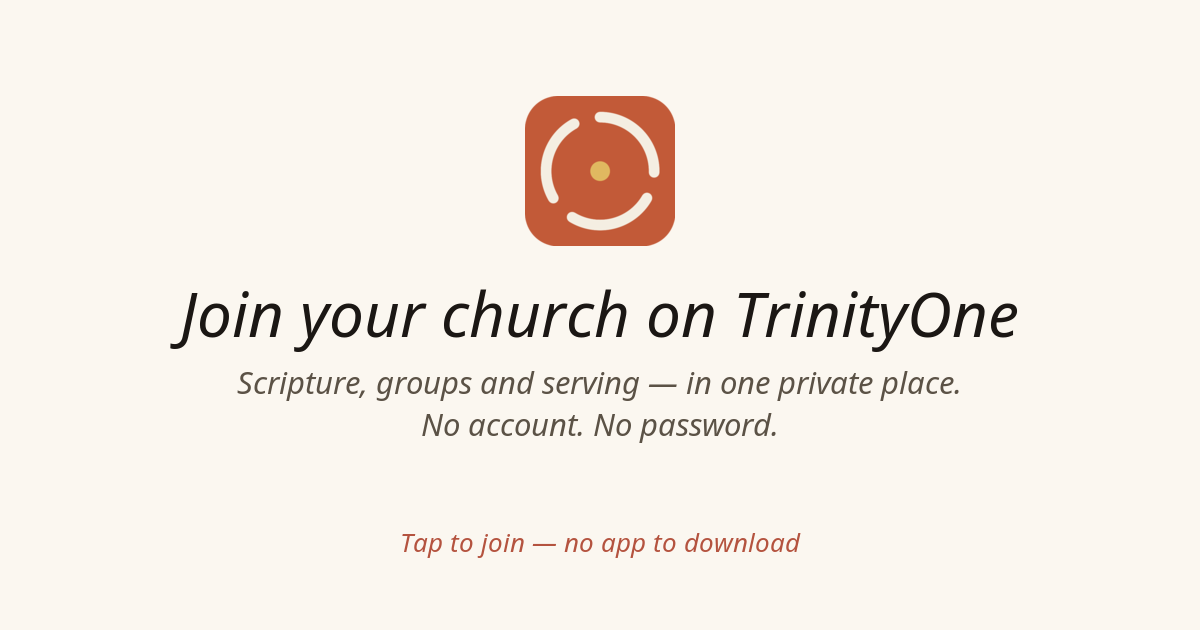
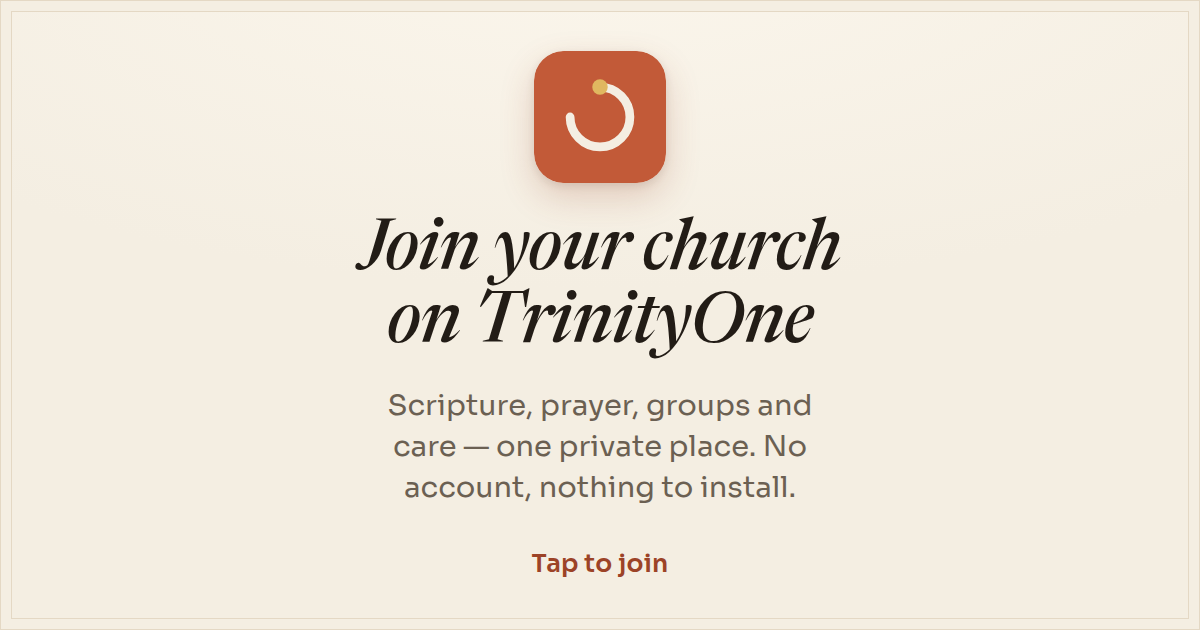
feat(share): refresh social cards + add a site-wide preview
Regenerate og-join.png (invite links) with current copy: drop the stale
"No password" line (there's an optional PIN now) and add care to the list.
Add og-cover.png "Build your church on TrinityOne" as the site-wide card —
mirrors the invite card's "Join your church on TrinityOne" — and wire
OG/Twitter meta into index/features/why/about/help/downloads, which had no
share preview at all (index/help also gained a meta description).

Cards regenerate from scripts/og-card.html via scripts/make-og-cards.sh
(headless chromium, 1200x630) — edit the CARDS object and re-run to reword.

Claude-Session: https://claude.ai/code/session_017d7boTphK8TM3FqU9XhieK

diff --git a/scripts/og-card.html b/scripts/og-card.html
@@ -1,0 +1,96 @@
+<!doctype html>
+<!-- Social share-card template for TrinityOne. NOT web-served — rendered to PNG at
+     build time by scripts/make-og-cards.sh (headless chromium, 1200x630).
+     Variants via ?v=join (the church join link) or ?v=site (any marketing page).
+     Edit the copy in CARDS below, then re-run the script. -->
+<meta charset="utf-8">
+<link rel="stylesheet" href="../vendor/fonts/fonts.css">
+<style>
+  :root{
+    --paper:#F4EEE2; --paper-soft:#FBF6EC;
+    --ink:#221C16; --ink-2:#6B6052;
+    --clay:#C25A38; --clay-deep:#9C4327; --gold:#C8962E; --line:#E4D8C4;
+    --serif:'Newsreader',Georgia,serif; --ui:'Sora',system-ui,sans-serif;
+  }
+  *{margin:0;padding:0;box-sizing:border-box}
+  html,body{width:1200px;height:630px}
+  body{
+    background:
+      radial-gradient(120% 90% at 50% -10%, var(--paper-soft) 0%, var(--paper) 62%);
+    font-family:var(--ui); color:var(--ink);
+    -webkit-font-smoothing:antialiased; text-rendering:optimizeLegibility;
+    display:flex; align-items:center; justify-content:center;
+  }
+  .card{
+    width:100%; height:100%;
+    border:1px solid var(--line);
+    box-shadow:inset 0 0 0 10px var(--paper), inset 0 0 0 11px var(--line);
+    display:flex; flex-direction:column; align-items:center; justify-content:center;
+    text-align:center; padding:0 96px;
+  }
+  .icon{
+    width:132px; height:132px; border-radius:30px;
+    box-shadow:0 14px 34px rgba(156,67,39,.22), 0 3px 8px rgba(34,28,22,.10);
+  }
+  .eyebrow{
+    display:none;
+    font-weight:700; font-size:20px; letter-spacing:4.5px;
+    text-transform:uppercase; color:var(--clay); margin-top:30px;
+  }
+  h1{
+    font-family:var(--serif); font-style:italic; font-weight:500;
+    font-size:70px; line-height:1.04; letter-spacing:-1px;
+    margin-top:34px; max-width:16ch; text-wrap:balance;
+  }
+  .sub{
+    font-weight:400; font-size:29px; line-height:1.42; color:var(--ink-2);
+    margin-top:22px; max-width:26ch; text-wrap:balance;
+  }
+  .cta{
+    display:none;
+    margin-top:40px; font-weight:600; font-size:25px;
+    color:var(--clay-deep); letter-spacing:.2px;
+  }
+  .cta::before{content:"";}
+  /* per-variant switches, toggled by the boot script's class on <body> */
+  body.v-join .cta{display:block}
+  /* eyebrow supported but unused; shown only if a variant sets non-empty eyebrow text */
+  body.has-eyebrow .eyebrow{display:block}
+  body.has-eyebrow h1{margin-top:16px}
+</style>
+<body>
+  <div class="card">
+    <img class="icon" src="../icons/halo.svg" alt="">
+    <div class="eyebrow" id="eyebrow"></div>
+    <h1 id="head"></h1>
+    <div class="sub" id="sub"></div>
+    <div class="cta" id="cta"></div>
+  </div>
+<script>
+  var CARDS = {
+    // The church JOIN link (join.html / welcome.html / install-anywhere.html / migrate.html)
+    join: {
+      eyebrow: '',
+      head: 'Join your church on TrinityOne',
+      sub: 'Scripture, prayer, groups and care — one private place. No account, nothing to install.',
+      cta: 'Tap to join'
+    },
+    // Any marketing page (index / features / why / about / help / downloads) — a plain site URL,
+    // i.e. a church LEADER arriving, not an invited member. Mirrors the join card: "Build" vs "Join".
+    site: {
+      eyebrow: '',
+      head: 'Build your church on TrinityOne',
+      sub: 'Scripture, prayer, groups, serving and care — on your church’s own server. No Big Tech, no ads.',
+      cta: ''
+    }
+  };
+  var v = (new URLSearchParams(location.search).get('v') || 'join');
+  var c = CARDS[v] || CARDS.join;
+  document.body.className = 'v-' + (CARDS[v] ? v : 'join') + (c.eyebrow ? ' has-eyebrow' : '');
+  document.getElementById('eyebrow').textContent = c.eyebrow;
+  document.getElementById('head').textContent = c.head;
+  document.getElementById('sub').textContent = c.sub;
+  document.getElementById('cta').textContent = c.cta;
+  document.title = 'og-' + v;
+</script>
+</body>

diff --git a/why.html b/why.html
@@ -5,6 +5,18 @@
 <meta name="viewport" content="width=device-width, initial-scale=1.0" />
 <title>TrinityOne — Why we built this</title>
 <meta name="description" content="Why TrinityOne exists: built first for the church the world can't see — where privacy and resilience are not features but safety — and for the Church, everywhere." />
+<meta property="og:type" content="website" />
+<meta property="og:site_name" content="TrinityOne" />
+<meta property="og:title" content="TrinityOne — Why we built this" />
+<meta property="og:description" content="Built first for the church the world can't see — where privacy and resilience are not features but safety — and for the Church, everywhere." />
+<meta property="og:image" content="https://trinityone.church/og-cover.png" />
+<meta property="og:image:width" content="1200" />
+<meta property="og:image:height" content="630" />
+<meta property="og:url" content="https://trinityone.church/why.html" />
+<meta name="twitter:card" content="summary_large_image" />
+<meta name="twitter:title" content="TrinityOne — Why we built this" />
+<meta name="twitter:description" content="Built first for the church the world can't see — where privacy and resilience are safety, not features." />
+<meta name="twitter:image" content="https://trinityone.church/og-cover.png" />
 <link rel="stylesheet" href="vendor/fonts/fonts.css" />
 <link rel="icon" href="icons/halo.svg" type="image/svg+xml" />
 <link rel="icon" type="image/png" sizes="192x192" href="icons/icon-192.png" />

diff --git a/index.html b/index.html
@@ -4,6 +4,19 @@
 <meta charset="UTF-8" />
 <meta name="viewport" content="width=device-width, initial-scale=1.0, viewport-fit=cover" />
 <title>TrinityOne — Bible Study</title>
+<meta name="description" content="Scripture, prayer, groups, serving and care — running on a server your church owns. No Big Tech, no ads, no accounts." />
+<meta property="og:type" content="website" />
+<meta property="og:site_name" content="TrinityOne" />
+<meta property="og:title" content="TrinityOne — a private home for your church" />
+<meta property="og:description" content="Scripture, prayer, groups, serving and care — running on a server your church owns. No Big Tech, no ads, no accounts." />
+<meta property="og:image" content="https://trinityone.church/og-cover.png" />
+<meta property="og:image:width" content="1200" />
+<meta property="og:image:height" content="630" />
+<meta property="og:url" content="https://trinityone.church/" />
+<meta name="twitter:card" content="summary_large_image" />
+<meta name="twitter:title" content="TrinityOne — a private home for your church" />
+<meta name="twitter:description" content="Scripture, prayer, groups, serving and care — on a server your church owns. No Big Tech, no ads." />
+<meta name="twitter:image" content="https://trinityone.church/og-cover.png" />
 <link rel="manifest" href="manifest.json" />
 <meta name="theme-color" content="#C25A38" />
 <meta name="apple-mobile-web-app-capable" content="yes" />

diff --git a/features.html b/features.html
@@ -5,6 +5,18 @@
 <meta name="viewport" content="width=device-width, initial-scale=1.0" />
 <title>TrinityOne — Features in depth</title>
 <meta name="description" content="Everything TrinityOne does — the Bible reader, community, serving, calendar, care, safety check, safeguarding and self-hosting — running on a box your church owns." />
+<meta property="og:type" content="website" />
+<meta property="og:site_name" content="TrinityOne" />
+<meta property="og:title" content="TrinityOne — Features in depth" />
+<meta property="og:description" content="The Bible reader, community, serving, calendar, care, safety check, safeguarding and self-hosting — running on a box your church owns." />
+<meta property="og:image" content="https://trinityone.church/og-cover.png" />
+<meta property="og:image:width" content="1200" />
+<meta property="og:image:height" content="630" />
+<meta property="og:url" content="https://trinityone.church/features.html" />
+<meta name="twitter:card" content="summary_large_image" />
+<meta name="twitter:title" content="TrinityOne — Features in depth" />
+<meta name="twitter:description" content="The Bible reader, community, serving, calendar, care, safety check, safeguarding and self-hosting — on a box your church owns." />
+<meta name="twitter:image" content="https://trinityone.church/og-cover.png" />
 
 <link rel="stylesheet" href="vendor/fonts/fonts.css" />
 <link rel="stylesheet" href="brand.css" />

diff --git a/help.html b/help.html
@@ -4,6 +4,19 @@
 <meta charset="UTF-8" />
 <meta name="viewport" content="width=device-width, initial-scale=1.0" />
 <title>TrinityOne — Help & Getting started</title>
+<meta name="description" content="Set up your church, join on your phone, and get the most out of TrinityOne — step-by-step guides and video walkthroughs." />
+<meta property="og:type" content="website" />
+<meta property="og:site_name" content="TrinityOne" />
+<meta property="og:title" content="TrinityOne — Help &amp; Getting started" />
+<meta property="og:description" content="Set up your church, join on your phone, and get the most out of TrinityOne — step-by-step guides and video walkthroughs." />
+<meta property="og:image" content="https://trinityone.church/og-cover.png" />
+<meta property="og:image:width" content="1200" />
+<meta property="og:image:height" content="630" />
+<meta property="og:url" content="https://trinityone.church/help.html" />
+<meta name="twitter:card" content="summary_large_image" />
+<meta name="twitter:title" content="TrinityOne — Help &amp; Getting started" />
+<meta name="twitter:description" content="Set up your church, join on your phone, and get the most out of TrinityOne — guides and video walkthroughs." />
+<meta name="twitter:image" content="https://trinityone.church/og-cover.png" />
 <link rel="stylesheet" href="vendor/fonts/fonts.css" />
 <link rel="stylesheet" href="brand.css" />
 <style>

diff --git a/downloads.html b/downloads.html
@@ -5,6 +5,18 @@
 <meta name="viewport" content="width=device-width, initial-scale=1.0" />
 <title>TrinityOne — Get the app</title>
 <meta name="description" content="Download TrinityOne — the member app and the Steward console — for Android, or open them in any browser. Free to use." />
+<meta property="og:type" content="website" />
+<meta property="og:site_name" content="TrinityOne" />
+<meta property="og:title" content="TrinityOne — Get the app" />
+<meta property="og:description" content="Download the member app and the Steward console for Android, or open them in any browser. Free to use." />
+<meta property="og:image" content="https://trinityone.church/og-cover.png" />
+<meta property="og:image:width" content="1200" />
+<meta property="og:image:height" content="630" />
+<meta property="og:url" content="https://trinityone.church/downloads.html" />
+<meta name="twitter:card" content="summary_large_image" />
+<meta name="twitter:title" content="TrinityOne — Get the app" />
+<meta name="twitter:description" content="Download the member app and the Steward console for Android, or open them in any browser." />
+<meta name="twitter:image" content="https://trinityone.church/og-cover.png" />
 <link rel="stylesheet" href="vendor/fonts/fonts.css" />
 <link rel="icon" href="icons/halo.svg" type="image/svg+xml" />
 <link rel="icon" type="image/png" sizes="192x192" href="icons/icon-192.png" />

diff --git a/about.html b/about.html
@@ -5,6 +5,18 @@
 <meta name="viewport" content="width=device-width, initial-scale=1.0" />
 <title>TrinityOne — About</title>
 <meta name="description" content="What TrinityOne is, who it's for, and why we build it — plus two short pitch decks you can read or download." />
+<meta property="og:type" content="website" />
+<meta property="og:site_name" content="TrinityOne" />
+<meta property="og:title" content="TrinityOne — About" />
+<meta property="og:description" content="What TrinityOne is, who it's for, and why we build it — plus two short pitch decks you can read or download." />
+<meta property="og:image" content="https://trinityone.church/og-cover.png" />
+<meta property="og:image:width" content="1200" />
+<meta property="og:image:height" content="630" />
+<meta property="og:url" content="https://trinityone.church/about.html" />
+<meta name="twitter:card" content="summary_large_image" />
+<meta name="twitter:title" content="TrinityOne — About" />
+<meta name="twitter:description" content="What TrinityOne is, who it's for, and why we build it." />
+<meta name="twitter:image" content="https://trinityone.church/og-cover.png" />
 <link rel="stylesheet" href="vendor/fonts/fonts.css" />
 <link rel="icon" href="icons/halo.svg" type="image/svg+xml" />
 <link rel="icon" type="image/png" sizes="192x192" href="icons/icon-192.png" />
